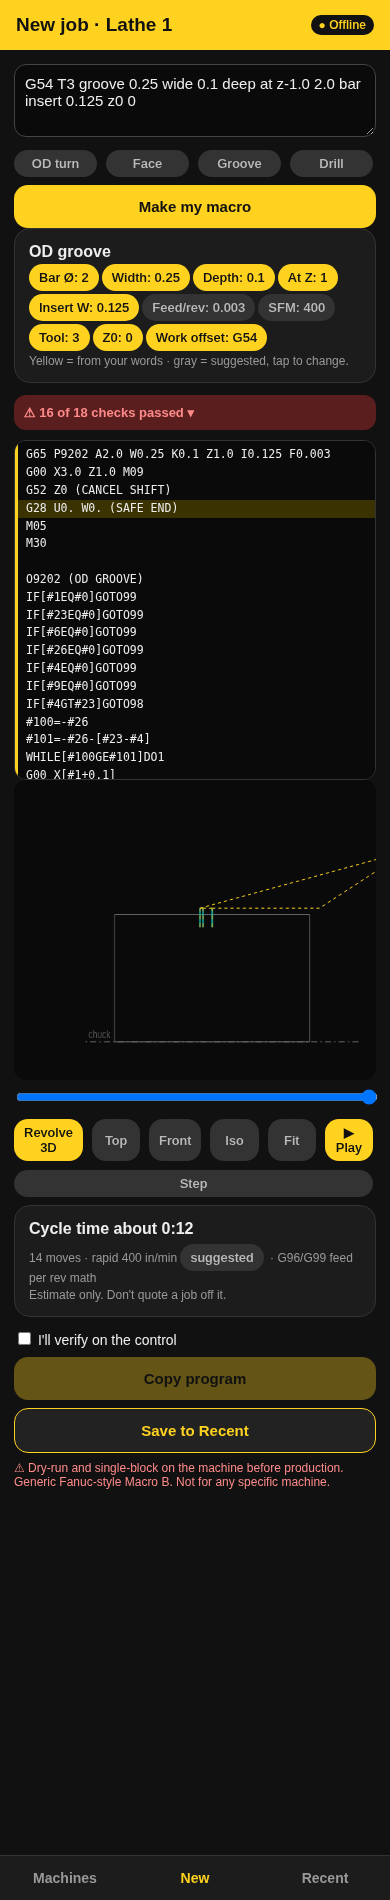
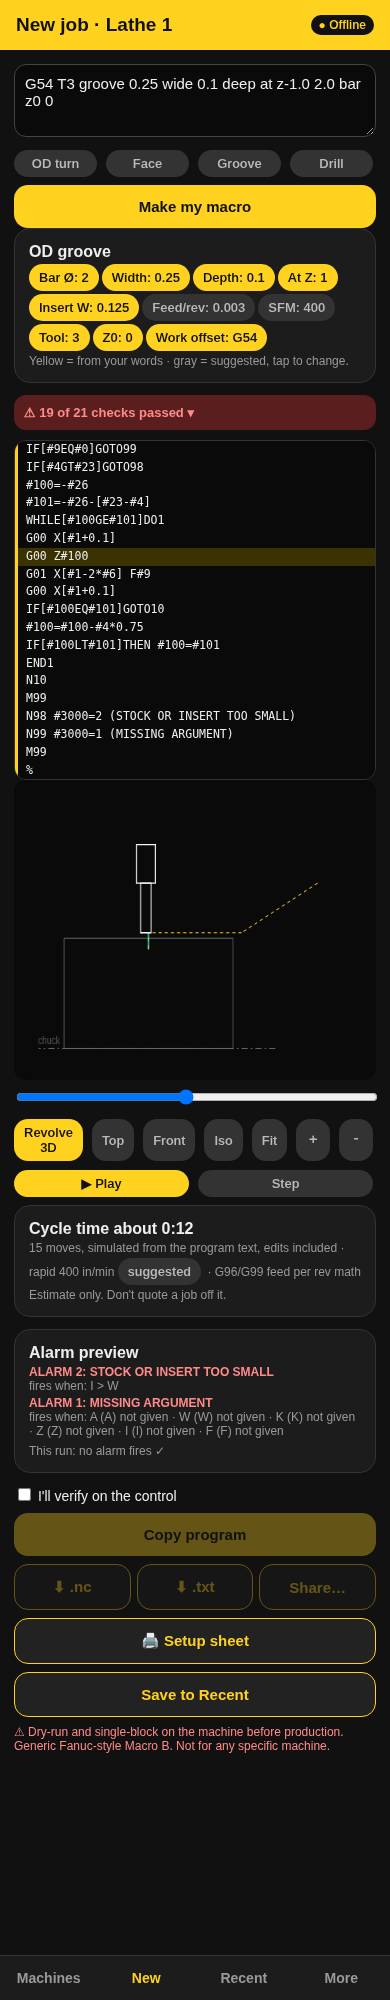
Round 3: Macro B interpreter drives sim from edited text, lathe fit/pan/zoom, tool library, G-code scanner, calculators, alarm preview, export, setup sheet, samples, snippets, change log, UI tests

diff --git a/index.html b/index.html
@@ -24,7 +24,7 @@ textarea,input,select{width:100%;background:#0a0a0a;color:#eee;border:1px solid 
 </style></head><body>
 <div class="h"><span id="ttl">My Machines 😼</span><small>● Offline</small></div>
 <div class="c" id="v"></div>
-<div class="tabs"><button data-t="machines">Machines</button><button data-t="new">New</button><button data-t="recent">Recent</button></div>
+<div class="tabs"><button data-t="machines">Machines</button><button data-t="new">New</button><button data-t="recent">Recent</button><button data-t="more">More</button></div>
 <script>
 const $=s=>document.querySelector(s),V=$('#v');
 const PRESETS={'Vertical mills':['Generic 3-axis VMC','Generic VMC w/ 4th axis','Small toolroom mill'],'Horizontal mills':['Generic HMC w/ pallet','Generic HMC 4-axis'],'Lathes':['Generic 2-axis lathe','Lathe w/ live tooling','Lathe w/ sub-spindle']};
@@ -35,7 +35,7 @@ function mk(name,type,user){return{id:Date.now()+Math.random(),name,type,s:(isLT
 let S=JSON.parse(localStorage.getItem('mc')||'null')||{m:[mk('Mill A','demo VMC',['Units','Rapid rate (in/min)']),mk('Mill B','demo VMC 4th',['Units']),mk('Lathe 1','demo lathe',[])],jobs:[],cur:0};
 S.m.forEach(m=>{if((isLT(m.type)&&!m.s.find(x=>x.k=='Diameter mode'))||!m.s.find(x=>x.k=='Extended offsets'))m.s=mk(m.name,m.type).s});
 const save=()=>localStorage.setItem('mc',JSON.stringify(S));
-function tab(t){document.querySelectorAll('.tabs button').forEach(b=>b.classList.toggle('on',b.dataset.t==t));({machines,new:nw,recent})[t]();scrollTo(0,0)}
+function tab(t){document.querySelectorAll('.tabs button').forEach(b=>b.classList.toggle('on',b.dataset.t==t));({machines,new:nw,recent,more})[t]();scrollTo(0,0)}
 document.querySelectorAll('.tabs button').forEach(b=>b.onclick=()=>tab(b.dataset.t));
 const pct=m=>Math.round(100*m.s.filter(x=>x.st=='user').length/m.s.length);
 const cls={user:'g',suggested:'gr',confirm:'r'},ic={user:'✓',suggested:'~',confirm:'!'};
@@ -104,7 +104,7 @@ function gen(j){const p=k=>j.p[k]?j.p[k].v:0,c=[],mv=[];let pos=[0,0,2],out=0;
  mv.forEach(m=>{if(!m.r&&(m.b[2]<st[2]))m.out=1,out++});j.stock=st;return{code:c,moves:mv,out}}
 const fmt=s=>Math.floor(s/60)+':'+String(Math.round(s%60)).padStart(2,'0');
 function saveJob(){S.jobs.unshift({...J,date:Date.now(),machine:(S.m[S.cur]||{}).name});save();tab('recent')}
-function recent(){$('#ttl').textContent='Recent';V.innerHTML=S.jobs.length?S.jobs.map((j,i)=>`<div class="card" onclick="reopen(${i})"><div class="t">${OPN[j.op]} · ${j.machine||''}</div><div class="s">${new Date(j.date).toLocaleString()}</div><div class="s">${esc(j.text)}</div></div>`).join(''):'<div class="card s">No saved jobs yet.</div>'}
+function recent(){$('#ttl').textContent='Recent';V.innerHTML=S.jobs.length?S.jobs.map((j,i)=>`<div class="card" onclick="reopen(${i})"><div class="t">${OPN[j.op]} · ${j.machine||''}</div><div class="s">${new Date(j.date).toLocaleString()}</div><div class="s">${esc(j.text)}</div></div>`).join(''):`<div class="card"><div class="s">No saved jobs yet. Try a sample:</div>${SAMPLES.map((s,i)=>`<button class="chip y" onclick="sample(${i})">${s[1]}</button>`).join('')}</div>`}
 function reopen(i){J=JSON.parse(JSON.stringify(S.jobs[i]));const k=S.m.findIndex(m=>m.name==J.machine);if(k>=0)S.cur=k;tab('new');show()}
 // ---------- work offsets (canonical: 'G54'..'G59' or 'P1'..'P300')
 function normOff(t){t=String(t).toLowerCase();let m=t.match(/g54\.1\s*p\s*(\d+)|g54\s*p\s*(\d+)/);if(m)return'P'+(m[1]||m[2]);m=t.match(/g1(1\d|2\d)\b/);if(m)return'P'+(+m[1]-9);m=t.match(/\bp\s*(\d+)\b/);if(m&&!/peck/.test(t))return'P'+m[1];m=t.match(/g5[4-9]\b/);return m?m[0].toUpperCase():null}
@@ -183,11 +183,11 @@ function show(){const miss=Object.entries(J.p).filter(([k,x])=>x.v==null);
  h+=`<div class="ok" id="ck" onclick="$('#cl').classList.toggle('hid')"></div><div id="cl" class="hid card"></div>
  <div class="code" id="ed">${J.code.map((l,i)=>`<div class="ln ${J.edits[i]!=null?'u':''}" contenteditable data-i="${i}">${esc(J.edits[i]??l)}</div>`).join('')}</div>
  <canvas id="cv"></canvas><input type="range" id="sc" min="0" value="0" style="padding:0;margin-top:8px">
- <div class="row" style="margin-top:6px">${J.lathe?'<button class="chip y" id="rv" onclick="rev()">Revolve 3D</button>':''}<button class="chip gr" onclick="vw('top')">Top</button><button class="chip gr" onclick="vw('front')">Front</button><button class="chip gr" onclick="vw('iso')">Iso</button><button class="chip gr" onclick="vw('fit')">Fit</button><button class="chip y" onclick="play()">▶ Play</button><button class="chip gr" onclick="step()">Step</button></div>
- <div class="card" style="margin-top:8px" id="info"></div>
- <label><input type="checkbox" id="vf" style="width:auto"> I'll verify on the control</label><button class="btn" id="cp" disabled onclick="copy()">Copy program</button><button class="btn o" onclick="saveJob()">Save to Recent</button>
+ <div class="row" style="margin-top:6px">${J.lathe?'<button class="chip y" id="rv" onclick="rev()">Revolve 3D</button>':''}<button class="chip gr" onclick="vw('top')">Top</button><button class="chip gr" onclick="vw('front')">Front</button><button class="chip gr" onclick="vw('iso')">Iso</button><button class="chip gr" onclick="vw('fit')">Fit</button><button class="chip gr" onclick="zoom(1.25)">＋</button><button class="chip gr" onclick="zoom(0.8)">－</button><button class="chip y" onclick="play()">▶ Play</button><button class="chip gr" onclick="step()">Step</button></div>
+ <div class="card" style="margin-top:8px" id="info"></div><div class="card" id="alm"></div>
+ <label><input type="checkbox" id="vf" style="width:auto"> I'll verify on the control</label><button class="btn gate" id="cp" disabled onclick="copy()">Copy program</button><div class="row"><button class="btn o gate" disabled onclick="dl('nc')">⬇ .nc</button><button class="btn o gate" disabled onclick="dl('txt')">⬇ .txt</button><button class="btn o gate" disabled onclick="share()">Share…</button></div><button class="btn o" onclick="sheet()">🖨 Setup sheet</button><button class="btn o" onclick="saveJob()">Save to Recent</button>
  <div class="foot">⚠ Dry-run and single-block on the machine before production. Generic Fanuc-style Macro B. Not for any specific machine.</div>`;
- $('#out').innerHTML=h;$('#vf').onchange=e=>$('#cp').disabled=!e.target.checked;
+ $('#out').innerHTML=h;$('#vf').onchange=e=>V.querySelectorAll('.gate').forEach(b=>b.disabled=!e.target.checked);
  V.querySelectorAll('.ln').forEach(el=>el.oninput=()=>{J.edits[el.dataset.i]=el.textContent;el.classList.add('u');refresh()});
  $('#sc').oninput=e=>{clearInterval(pl);scrub(+e.target.value)};view.rev=0;refresh();initCv();scrub(J.M.length)}
 function refresh(){J.M=J.moves.concat(userMoves());const ch=checks(J),ok=ch.filter(c=>c[1]).length,m=S.m[S.cur],rr=+((sv('Rapid rate (in/min)')||{v:400}).v),rs=sv('Rapid rate (in/min)'),out=J.M.filter(x=>x.out).length;
@@ -240,7 +240,154 @@ function step(){clearInterval(pl);scrub(view.n>=J.M.length?1:view.n+1)}
 function shiftZero(j,g){const v=k=>j.p[k]?j.p[k].v:0,o=j.lathe?[0,0,v('Z0')]:[v('Center X')||v('Start X')||0,v('Center Y')||v('Start Y')||0,v('Z0')];
  g.moves.forEach(m=>{m.a=m.a.map((x,i)=>x+o[i]);m.b=m.b.map((x,i)=>x+o[i])});j.stock=j.stock.map((x,i)=>x+o[i%3]);if(j.lb)j.lb={...j.lb,z:j.lb.z+o[2],L:j.lb.L-o[2]}}
 
+// ---------- Macro B interpreter (runs the edited text) — generic subset
+const ARG={A:1,B:2,C:3,I:4,J:5,K:6,D:7,E:8,F:9,H:11,M:13,Q:17,R:18,S:19,T:20,U:21,V:22,W:23,X:24,Y:25,Z:26};
+const FN={SIN:x=>Math.sin(x*Math.PI/180),COS:x=>Math.cos(x*Math.PI/180),TAN:x=>Math.tan(x*Math.PI/180),ATAN:x=>Math.atan(x)*180/Math.PI,ASIN:x=>Math.asin(x)*180/Math.PI,ACOS:x=>Math.acos(x)*180/Math.PI,SQRT:Math.sqrt,ABS:Math.abs,ROUND:Math.round,FIX:Math.trunc,FUP:x=>x<0?Math.floor(x):Math.ceil(x),LN:Math.log,EXP:Math.exp};
+function mexpr(e,V){let s=e.replace(/\[/g,'(').replace(/\]/g,')').replace(/#(\d+)/g,'V($1)').replace(/#\(/g,'V(')
+  .replace(/EQ/g,'==').replace(/NE/g,'!=').replace(/GE/g,'>=').replace(/LE/g,'<=').replace(/GT/g,'>').replace(/LT/g,'<').replace(/AND/g,'&&').replace(/XOR/g,'^').replace(/OR/g,'||')
+  .replace(/(SIN|COS|TAN|ATAN|ASIN|ACOS|SQRT|ABS|ROUND|FIX|FUP|LN|EXP)\(/g,'F.$1(');
+ if(!/^(?:V|F\.[A-Z]+|[\d.]+|[-+*/()<>=!&|^])*$/.test(s))throw Error('bad expression: '+e);
+ return Function('V','F','return ('+s+')')(V,FN)}
+function brEnd(s,i){let d=0;for(;i<s.length;i++){if(s[i]=='[')d++;else if(s[i]==']'&&--d==0)return i}return -1}
+function words(s){const w=[];let i=0;while(i<s.length){const L=s[i];if(!/[A-Z]/.test(L)){i++;continue}let j=i+1;if(s[j]=='-'||s[j]=='+')j++;
+  if(s[j]=='['){j=brEnd(s,j)+1}else if(s[j]=='#'){j++;if(s[j]=='[')j=brEnd(s,j)+1;else while(/\d/.test(s[j]))j++}else while(/[\d.]/.test(s[j]))j++;
+  w.push([L,s.slice(i+1,j)]);i=j}return w}
+function interp(lines,o){o=o||{};const lathe=o.lathe,M=[],alarms=[],V={};const R=[];let pos=[...(o.start||[0,0,2])],home=[...pos],mode=0,abs=1,can=null,ret=99,shift=[0,0,0],feed=1,steps=0,err=null;
+ const cl=lines.map(l=>{const c=(l.match(/\(([^)]*)\)/)||[])[1]||'';return{c,s:l.replace(/\([^)]*\)/g,'').replace(/\s+/g,'').toUpperCase().replace(/^%$/,'')}});
+ const progStart=i=>{for(let k=i;k>=0;k--)if(/^O\d+/.test(cl[k].s))return k;return 0};
+ const findN=(n,i)=>{const p=progStart(i);for(let k=p;k<cl.length;k++){if(k>p&&/^O\d+/.test(cl[k].s))break;if(new RegExp('^N'+n+'(?!\\d)').test(cl[k].s))return k}throw Error('N'+n+' not found')};
+ const findO=n=>{const k=cl.findIndex(x=>new RegExp('^O0*'+n+'(?!\\d)').test(x.s));if(k<0)throw Error('O'+n+' not found');return k};
+ let loc=[{}];const get=n=>{n=Math.round(n);if(n==0)return null;if(n<=33){const v=loc.at(-1)[n];return v==null?null:v}const v=V[n];return v==null?null:v};
+ const set=(n,v)=>{n=Math.round(n);if(n<=33)loc.at(-1)[n]=v;else V[n]=v};
+ const ev=e=>mexpr(e,get);const val=x=>{const v=ev(x);return v==null?0:v};
+ const mv=(b,r,l)=>{const m={a:[...pos],b,r:r?1:0,f:feed,l};M.push(m);pos=[...b]};
+ function motion(s,i){const w=words(s);let g=[],P={};w.forEach(([L,x])=>{if(L=='G')g.push(+x);else P[L]=x});
+  if(g.includes(65)){const pr=val(P.P),args={};Object.keys(P).forEach(k=>{if(k!='P'&&ARG[k])args[ARG[k]]=val(P[k])});loc.push(args);R.push(i);return findO(pr)}
+  g.forEach(x=>{if(x==0||x==1||x==2||x==3)mode=x;if(x==90)abs=1;if(x==91)abs=0;if(x==80)can=null;if(x==81||x==83)can=x;if(x==98||x==99)ret=x});
+  if(P.F!=null)feed=val(P.F);
+  if(g.includes(52)){['X','Y','Z'].forEach((k,n)=>{if(P[k]!=null)shift[n]=val(P[k])});return}
+  if(g.includes(28)){mv(lathe?[...home]:[pos[0],pos[1],home[2]+shift[2]],1,i);return}
+  if(g.includes(50)&&lathe)return;
+  if(g.some(x=>x==4)){return}
+  const t=[...pos];let any=0;
+  const ax=lathe?[['X',0,.5],['Z',2,1]]:[['X',0,1],['Y',1,1],['Z',2,1]];
+  ax.forEach(([k,n,sc])=>{if(P[k]!=null){any=1;t[n]=abs?val(P[k])*sc+shift[n]:t[n]+val(P[k])*sc}});
+  if(lathe){if(P.U!=null){any=1;t[0]+=val(P.U)/2}if(P.W!=null){any=1;t[2]+=val(P.W)}}
+  if(!any)return;
+  if(can&&!lathe){const z0=pos[2],rz=val(P.R??'0')+shift[2],zb=t[2],q=P.Q!=null?val(P.Q):0;mv([t[0],t[1],z0],1,i);mv([t[0],t[1],rz],1,i);
+   if(can==83&&q>0){let z=rz;while(z>zb+1e-9){const nz=Math.max(zb,z-q);mv([t[0],t[1],nz],0,i);mv([t[0],t[1],rz],1,i);if(nz>zb)mv([t[0],t[1],nz+0.01],1,i);z=nz}}else{mv([t[0],t[1],zb],0,i);}
+   mv([t[0],t[1],ret==98?z0:rz],1,i);if(ret==98)pos[2]=z0;return}
+  if(mode==2||mode==3){const a=lathe?[pos[2],pos[0]]:[pos[0],pos[1]],b=lathe?[t[2],t[0]]:[t[0],t[1]];let c;
+   if(P.R!=null){const r=val(P.R),dx=b[0]-a[0],dy=b[1]-a[1],d=Math.hypot(dx,dy),h=Math.sqrt(Math.max(0,r*r-d*d/4)),sgn=(mode==2)==(r>0)?-1:1;c=[(a[0]+b[0])/2-sgn*h*dy/d,(a[1]+b[1])/2+sgn*h*dx/d]}
+   else c=lathe?[a[0]+val(P.K||'0'),a[1]+val(P.I||'0')/1]:[a[0]+val(P.I||'0'),a[1]+val(P.J||'0')];
+   let a0=Math.atan2(a[1]-c[1],a[0]-c[0]),a1=Math.atan2(b[1]-c[1],b[0]-c[0]),r=Math.hypot(a[0]-c[0],a[1]-c[1]);const cw=mode==2;
+   if(cw&&a1>=a0)a1-=2*Math.PI;if(!cw&&a1<=a0)a1+=2*Math.PI;const n=Math.max(4,Math.ceil(Math.abs(a1-a0)/0.15));
+   for(let k=1;k<=n;k++){const an=a0+(a1-a0)*k/n,x=c[0]+r*Math.cos(an),y=c[1]+r*Math.sin(an),z=pos[2]+(t[2]-pos[2])/(n-k+1);mv(lathe?[y,0,x]:[x,y,lathe?pos[2]:z],0,i)}return}
+  mv(t,mode==0,i)}
+ function stmt(s,i){
+  if(/^#/.test(s)&&s.includes('=')){const k=s.indexOf('=');let L=s.slice(1,k);const n=L[0]=='['?val(L.slice(1,-1)):+L;const v=ev(s.slice(k+1));if(n==3000){alarms.push({n:v,msg:cl[i].c,l:i});throw{alarm:1}}set(n,v);return}
+  if(/^GOTO/.test(s))return findN(val(s.slice(4)),i);
+  if(/^(M30|M02)/.test(s)||/M30/.test(s.replace(/\[.*?\]/g,''))&&!/^G/.test(s)&&!/^#/.test(s)){throw{end:1}}
+  if(/M99/.test(s)){const r=R.pop();loc.pop();if(r==null)throw{end:1};return r+1}
+  return motion(s,i)}
+ let i=0;try{
+  // run from first program
+  i=cl.findIndex(x=>/^O\d+/.test(x.s));if(i<0)i=0;else i++;
+  while(i<cl.length){if(++steps>200000)throw Error('step limit (endless loop?)');const s=cl[i].s;let nx=i+1;
+   if(!s||/^O\d+/.test(s)){ if(/^O\d+/.test(s)&&!R.length)break;i=nx;continue}
+   let b=s.replace(/^N\d+(?=\D|$)/,'');
+   if(/^IF\[/.test(b)){const e=brEnd(b,2),c=ev(b.slice(3,e)),rest=b.slice(e+1);if(c){if(/^GOTO/.test(rest))nx=findN(val(rest.slice(4)),i);else{const r=stmt(rest.replace(/^THEN/,''),i);if(r!=null)nx=r}}}
+   else if(/^WHILE\[/.test(b)){const e=brEnd(b,5),c=ev(b.slice(6,e)),n=b.slice(e+1).replace('DO','');if(!c){let k=i+1;while(k<cl.length&&!new RegExp('^(N\\d+)?END'+n+'$').test(cl[k].s))k++;nx=k+1}}
+   else if(/^END\d$/.test(b)){const n=b[3];let k=i-1,d=0;while(k>=0&&!new RegExp('^(N\\d+)?WHILE.*DO'+n+'$').test(cl[k].s))k--;nx=k}
+   else{const r=stmt(b,i);if(r!=null)nx=r}
+   i=nx}
+ }catch(e){if(!e.end&&!e.alarm)err=(e.message||String(e))+' (line '+(i+1)+')'}
+ return{moves:M,alarms,err}}
+// ---------- round 3: run sim from edited text
+const LET=Object.fromEntries(Object.entries(ARG).map(([k,v])=>[v,k]));
+function refresh(){const st=J.stock;let r;try{r=interp(txt(),{lathe:J.lathe,start:(J.moves[0]||{a:[0,0,2]}).a})}catch(e){r={moves:[],alarms:[],err:e.message}}
+ J.run=r;J.M=r.err||!r.moves.length?J.moves:r.moves;
+ J.M.forEach(m=>{m.out=0;if(J.lathe?(m.b[0]<-1e-6||(!m.r&&m.b[2]<st[2]-1e-6)):(!m.r&&m.b[2]<st[2]-1e-6))m.out=1});
+ const ch=checks(J);ch.unshift(['Program runs in simulator'+(r.err?': '+r.err:''),!r.err],['No #3000 alarm on this run'+(r.alarms.length?' (alarm '+r.alarms[0].n+': '+r.alarms[0].msg+')':''),!r.alarms.length]);
+ const lt=S.tools&&S.tools.find(t=>t.n==(J.p.Tool||{}).v);ch.push(['Tool T'+(J.p.Tool||{}).v+' is in the tool library',!!lt]);
+ const ok=ch.filter(c=>c[1]).length,rr=+((sv('Rapid rate (in/min)')||{v:400}).v),rs=sv('Rapid rate (in/min)'),out=J.M.filter(x=>x.out).length;J.ct=time(J.M,rr);
+ $('#ck').className='ok '+(ok==ch.length?'':'bad');$('#ck').textContent=`${ok==ch.length?'✓':'⚠'} ${ok} of ${ch.length} checks passed ▾`;$('#cl').innerHTML=ch.map(c=>`<div class="s">${c[1]?'✅':'❌'} ${c[0]}</div>`).join('');
+ $('#sc').max=J.M.length;
+ $('#info').innerHTML=`<div class="t">Cycle time about ${fmt(J.ct)}</div><div class="s">${J.M.length} moves, simulated from ${r.err?'the generator (your text has an error)':'the program text, edits included'} · rapid ${rr} in/min <span class="chip ${rs&&rs.st=='user'?'g':'gr'}">${rs&&rs.st=='user'?'set':'suggested'}</span>${J.lathe?' · G96/G99 feed per rev math':''}</div><div class="s">Estimate only. Don't quote a job off it.</div>`+(out?`<div class="s" style="color:#ff8a8a">⚠ ${out} move(s) outside stock or below centerline (red)</div>`:'');
+ $('#alm').innerHTML=alarmPreview();if(cv){if(view.n>J.M.length)view.n=J.M.length;draw()}}
+function alarmPreview(){const t=txt(),out=[];t.forEach((l,i)=>{const m=l.match(/N(\d+)\s*#3000\s*=\s*(\d+)\s*\(([^)]*)\)/);if(!m)return;
+  const conds=[];t.forEach(x=>{const g=x.replace(/\s/g,'').match(/^IF\[(.*)\]GOTO(\d+)$/);if(g&&g[2]==m[1])conds.push(g[1].replace(/#(\d+)EQ#0/,(a,n)=>`${LET[n]||'#'+n} (#${n}) not given`).replace(/#(\d+)/g,(a,n)=>LET[n]?LET[n]:a).replace(/GE/,' ≥ ').replace(/LT/,' < ').replace(/GT/,' > '))});
+  out.push(`<div class="s"><b style="color:#ff8a8a">ALARM ${m[2]}: ${m[3]}</b><br>fires when: ${[...new Set(conds)].join(' · ')||'—'}</div>`)});
+ const a=J.run&&J.run.alarms[0];return `<div class="t">Alarm preview</div>${out.join('')}<div class="s" style="margin-top:6px">This run: ${a?'<span style="color:#ff8a8a">stops at alarm '+a.n+' (line '+(a.l+1)+')</span>':'no alarm fires ✓'}</div>`}
+// ---------- view: fit / pan / zoom
+function vw(k){if(k=='top')view.rx=0,view.rz=0;if(k=='front')view.rx=-Math.PI/2,view.rz=0;if(k=='iso')view.rx=-0.9,view.rz=-0.6;if(k=='iso2')view.rx=-1.2,view.rz=0.9;view.px=0;view.py=0;
+ const st=J.stock,M=J.M||J.moves;view.c=[(st[0]+st[3])/2,(st[1]+st[4])/2,(st[2]+st[5])/2];view.s=Math.min(cv.clientWidth,300)*0.75/Math.max(st[3]-st[0],st[4]-st[1],st[5]-st[2],2.5);
+ if(J.lathe){let z0=st[2],z1=st[5],r1=J.lb.R;M.forEach(m=>[m.a,m.b].forEach(p=>{z0=Math.min(z0,p[2]);z1=Math.max(z1,p[2]);r1=Math.max(r1,p[0])}));z1+=0.25;z0-=0.15;r1+=0.8;const r0=-0.15;
+  view.fs=Math.min((cv.clientWidth-20)/(z1-z0),270/(r1-r0));view.fz=z1;view.fz0=z0;view.fr=r1;view.fx=10+((cv.clientWidth-20)-(z1-z0)*view.fs)/2}draw()}
+function P(p){if(J.lathe&&!view.rev)return[view.fx+(p[2]-view.fz0)*view.fs+view.px,15+(view.fr-p[0])*view.fs+view.py];
+ let x=p[0]-view.c[0],y=p[1]-view.c[1],z=p[2]-view.c[2];const cz=Math.cos(view.rz),sz=Math.sin(view.rz);[x,y]=[x*cz-y*sz,x*sz+y*cz];const cx=Math.cos(view.rx),sx=Math.sin(view.rx);[y,z]=[y*cx-z*sx,y*sx+z*cx];return[cv.clientWidth/2+x*view.s+view.px,150-y*view.s+view.py]}
+function zoom(f){view.s*=f;if(view.fs)view.fs*=f;draw()}
+function initCv(){cv=$('#cv');const d=devicePixelRatio||1;cv.width=cv.clientWidth*d;cv.height=300*d;ctx=cv.getContext('2d');ctx.scale(d,d);view.px=view.py=0;vw(J.lathe?'fit':'iso');
+ let dr=null;cv.onpointerdown=e=>dr=[e.clientX,e.clientY,e.shiftKey];onpointerup=()=>dr=null;cv.onwheel=e=>{e.preventDefault();zoom(e.deltaY<0?1.15:1/1.15)};
+ cv.onpointermove=e=>{if(!dr)return;const dx=e.clientX-dr[0],dy=e.clientY-dr[1];if((J.lathe&&!view.rev)||view.pan){view.px+=dx;view.py+=dy}else{view.rz+=dx/100;view.rx+=dy/100}dr=[e.clientX,e.clientY];draw()}}
+// ---------- tool library (§5)
+S.tools=S.tools||[{n:1,type:'Face mill',dia:2,len:3,fl:5},{n:2,type:'Drill',dia:0.25,len:4,fl:2},{n:3,type:'Groove insert',dia:0.125,len:2,fl:1},{n:4,type:'End mill',dia:0.5,len:3,fl:3},{n:5,type:'Drill',dia:0.25,len:4,fl:2}];
+const TT=['End mill','Face mill','Drill','Spot drill','Tap','Turning insert','Groove insert','Boring bar'];
+function tools(){document.querySelectorAll('.tabs button').forEach(b=>b.classList.toggle('on',b.dataset.t=='more'));$('#ttl').textContent='Tool library';V.innerHTML=S.tools.map((t,i)=>`<div class="card"><div class="row"><input style="width:60px;flex:0 0 60px" value="${t.n}" data-f="n" data-i="${i}"><select data-f="type" data-i="${i}">${TT.map(x=>`<option ${x==t.type?'selected':''}>${x}</option>`).join('')}</select></div>
+ <div class="row" style="margin-top:6px">${[['dia','Ø in'],['len','stick-out in'],['fl','flutes']].map(([f,l])=>`<label style="flex:1">${l}<input inputmode="decimal" value="${t[f]}" data-f="${f}" data-i="${i}"></label>`).join('')}</div><button class="chip r" onclick="S.tools.splice(${i},1);save();tools()">Remove</button></div>`).join('')+
+ `<button class="btn" onclick="S.tools.push({n:(Math.max(0,...S.tools.map(t=>t.n))+1),type:'End mill',dia:0.5,len:3,fl:3});save();tools()">+ Add tool</button><div class="s" style="margin-top:8px">Jobs look up the tool by number (T1, T2…) for its diameter. Demo tools only.</div><button class="btn o" onclick="more()">Back</button>`;
+ V.querySelectorAll('[data-f]').forEach(el=>el.onchange=()=>{const t=S.tools[el.dataset.i];t[el.dataset.f]=el.dataset.f=='type'?el.value:+el.value;save()})}
+const _req=req;req=function(j){j=_req(j);if(!j)return j;const t=S.tools.find(x=>x.n==(j.p.Tool||{}).v);if(t){
+ if(j.op=='face'&&j.p.Cutter.v==null)j.p.Cutter={v:t.dia,g:false,lib:1};if(j.p['Drill Ø']&&j.p['Drill Ø'].g)j.p['Drill Ø']={v:t.dia,g:false,lib:1};if(j.op=='lgroove'&&j.p['Insert W'].v==null)j.p['Insert W']={v:t.dia,g:false,lib:1}}return j};
+// ---------- G-code scanner (§9)
+const GD={'G00':'Rapid move','G01':'Straight feed move','G02':'Arc clockwise','G03':'Arc counter-clockwise','G04':'Dwell (pause)','G10':'Set offsets from program','G17':'XY plane','G18':'XZ plane (lathe)','G19':'YZ plane','G20':'Inch units','G21':'Metric units','G28':'Return to home','G40':'Cutter comp off','G41':'Cutter comp left','G42':'Cutter comp right','G43':'Tool length comp on','G49':'Tool length comp off','G50':'Lathe: max RPM clamp (or scaling off on some mills)','G52':'Local coordinate shift','G53':'Machine coordinates (one block)','G54':'Work offset 1','G55':'Work offset 2','G56':'Work offset 3','G57':'Work offset 4','G58':'Work offset 5','G59':'Work offset 6','G54.1':'Extended work offset (Pn)','G65':'Macro call (one shot)','G66':'Modal macro call','G67':'Cancel modal macro','G68':'Rotate coordinates','G69':'Cancel rotation','G70':'Lathe finish cycle','G71':'Lathe roughing cycle','G72':'Lathe face roughing','G73':'High-speed peck drill (mill) / pattern repeat (lathe)','G74':'Left-hand tap (mill) / face peck (lathe)','G76':'Fine bore (mill) / threading (lathe)','G80':'Cancel canned cycle','G81':'Drill cycle','G82':'Drill with dwell','G83':'Peck drill cycle','G84':'Tapping cycle','G85':'Bore in, feed out','G90':'Absolute positioning','G91':'Incremental positioning','G94':'Feed per minute','G95':'Feed per rev (mill)','G96':'Constant surface speed','G97':'Constant RPM','G98':'Canned cycle: return to start Z (mill) / feed per min (lathe)','G99':'Canned cycle: return to R (mill) / feed per rev (lathe)',
+ 'M00':'Program stop','M01':'Optional stop','M03':'Spindle on clockwise','M04':'Spindle on counter-clockwise','M05':'Spindle stop','M06':'Tool change','M08':'Coolant on','M09':'Coolant off','M30':'End of program, rewind','M98':'Call subprogram','M99':'Return from subprogram'};
+const LONLY=['G18','G50','G70','G71','G72','G96','G76'],MONLY=['G17','G43','G49','G81','G82','G83','G84','G85','G68','M06'];
+function scanner(pre){document.querySelectorAll('.tabs button').forEach(b=>b.classList.toggle('on',b.dataset.t=='more'));$('#ttl').textContent='G-code scanner';V.innerHTML=`<div class="s">Paste any program. Nothing leaves the phone. Checked against: <b>${(S.m[S.cur]||{}).name}</b></div><textarea id="sq" rows="8" style="font-family:ui-monospace,Menlo,monospace;font-size:12px;margin-top:6px">${esc(pre||'')}</textarea><button class="btn" onclick="scan()">Scan</button><div id="so"></div><button class="btn o" onclick="more()">Back</button>`;if(pre)scan()}
+function scan(){const t=$('#sq').value.toUpperCase().replace(/\([^)]*\)/g,''),L=isL(),seen={};
+ (t.match(/[GM]\d+(\.\d)?/g)||[]).forEach(c=>{const k=c[0]+(c.includes('.')?c.slice(1).padStart(4,'0'):c.slice(1).padStart(2,'0'));seen[k]=(seen[k]||0)+1});
+ (t.match(/G1[1-2]\d\b/g)||[]).forEach(c=>{seen[c]=seen[c]});
+ const rows=Object.keys(seen).sort().map(k=>{let d=GD[k],f='';if(/^G1[1-2]\d$/.test(k)){d='Haas-style extended work offset';f=/G110/.test((sv('Offset syntax')||{v:''}).v)?'':'This machine is set to '+(sv('Offset syntax')||{}).v}
+  if(k=='G54.1'){f=extN()?'':'Machine has no extended offsets'}if(!d)f='Unknown / not in the library — check the control manual';else if(L&&MONLY.includes(k))f='Mill code on a lathe — check';else if(!L&&LONLY.includes(k)&&k!='G50')f='Lathe code on a mill — check';
+  return`<div class="set"><span><b class="v" style="color:#14b8a6">${k}</b> ${d||'?'} <span class="s">×${seen[k]}</span>${f?`<br><span class="chip r">! ${f}</span>`:''}</span></div>`});
+ const mac=(t.match(/WHILE|IF\[|#\d+/g)||[]).length;$('#so').innerHTML=`<div class="card"><div class="t">${Object.keys(seen).length} codes found</div>${rows.join('')}<div class="s" style="margin-top:6px">${mac?mac+' macro items (#vars, IF, WHILE) found.':'No macro statements.'} Meanings are plain-English summaries; control behavior varies — confirm on yours.</div></div>`}
+// ---------- calculators (§16)
+function calc(){document.querySelectorAll('.tabs button').forEach(b=>b.classList.toggle('on',b.dataset.t=='more'));$('#ttl').textContent='Calculators';V.innerHTML=`<div class="card"><div class="t">Speeds & feeds</div><div class="row"><label style="flex:1">SFM<input id="c1" value="400"></label><label style="flex:1">Tool Ø in<input id="c2" value="0.5"></label></div><div class="row"><label style="flex:1">Flutes<input id="c3" value="3"></label><label style="flex:1">Chipload in/tooth<input id="c4" value="0.002"></label></div><div class="ok" id="co"></div></div>
+<div class="card"><div class="t">Bolt circle coordinates</div><div class="row"><label style="flex:1">Holes<input id="b1" value="6"></label><label style="flex:1">BC Ø<input id="b2" value="3"></label><label style="flex:1">Start°<input id="b3" value="0"></label></div><div class="row"><label style="flex:1">Center X<input id="b4" value="0"></label><label style="flex:1">Center Y<input id="b5" value="0"></label></div><div id="bo"></div></div>
+<div class="card"><div class="t">Tap drill (basic)</div><div class="row"><label style="flex:1">Major Ø (in or mm)<input id="t1" value="0.25"></label><label style="flex:1">TPI or pitch mm<input id="t2" value="20"></label></div><label><input type="checkbox" id="t3" style="width:auto"> metric</label><div class="ok" id="to"></div></div><div class="s">Starting points only — check your tool maker's data and your machine.</div><button class="btn o" onclick="more()">Back</button>`;
+ const g=id=>+$('#'+id).value,up=()=>{const rpm=g('c1')*3.82/g('c2'),ipm=rpm*g('c3')*g('c4');$('#co').textContent=`RPM ≈ ${Math.round(rpm)} · Feed ≈ ${ipm.toFixed(1)} in/min`;
+  let h='<table style="width:100%;font:12px ui-monospace,monospace;color:#ddd"><tr><th>#</th><th>X</th><th>Y</th></tr>';for(let i=0;i<g('b1');i++){const a=(g('b3')+360*i/g('b1'))*Math.PI/180;h+=`<tr><td>${i+1}</td><td>${(g('b4')+g('b2')/2*Math.cos(a)).toFixed(4)}</td><td>${(g('b5')+g('b2')/2*Math.sin(a)).toFixed(4)}</td></tr>`}$('#bo').innerHTML=h+'</table>';
+  const m=$('#t3').checked,d=m?g('t1')-g('t2'):g('t1')-1/g('t2');$('#to').textContent=`Tap drill ≈ ${d.toFixed(m?2:4)} ${m?'mm':'in'} (about 75% thread, major − pitch)`};V.querySelectorAll('input').forEach(e=>e.oninput=up);up()}
+// ---------- snippets (§15)
+S.snips=S.snips||[{n:'Safe start (mill)',c:'G17 G20 G40 G49 G80 G90'},{n:'Safe end (mill)',c:'M09\nG91 G28 Z0.\nG90 M05\nM30'},{n:'Missing-arg alarm',c:'IF[#1EQ#0]GOTO99\n...\nN99 #3000=1 (MISSING ARGUMENT)'},{n:'Count loop',c:'#100=0\nWHILE[#100LT#11]DO1\n(...)\n#100=#100+1\nEND1'},{n:'Safe start (lathe)',c:'G18 G20 G40 G80 G99\nG50 S3000'}];
+function snips(){document.querySelectorAll('.tabs button').forEach(b=>b.classList.toggle('on',b.dataset.t=='more'));$('#ttl').textContent='Snippets';V.innerHTML=S.snips.map((s,i)=>`<div class="card"><div class="t">⭐ ${esc(s.n)}</div><pre class="code" style="padding:8px;margin:6px 0">${esc(s.c)}</pre><div class="row"><button class="chip gr" onclick="navigator.clipboard?.writeText(S.snips[${i}].c);this.textContent='Copied'">Copy</button><button class="chip gr" onclick="scanner(S.snips[${i}].c)">Scan it</button><button class="chip r" onclick="S.snips.splice(${i},1);save();snips()">Remove</button></div></div>`).join('')+
+ `<div class="card"><input id="sn" placeholder="Name"><textarea id="sc2" rows="3" style="margin-top:6px;font-family:ui-monospace,monospace" placeholder="Code"></textarea><button class="btn" onclick="if($('#sn').value){S.snips.push({n:$('#sn').value,c:$('#sc2').value});save();snips()}">Save snippet</button></div><button class="btn o" onclick="more()">Back</button>`}
+// ---------- samples (§27), about + change log (§33)
+const SAMPLES=[['Mill A','Bolt circle (mill)','G54 T5 6 hole bolt circle 3.0 dia center x0 y0 z0 0 start 15 0.5 deep peck 0.1'],['Mill A','Hole grid (mill)','G55 T2 3 x 4 grid 0.75 spacing start x0.5 y0.5 z0 0 0.4 deep drill'],['Mill A','Face mill','G54 T1 face 4 x 3 take off 0.06 stepdown 0.02 stepover 70 z0 0'],['Lathe 1','OD turn (lathe)','G54 T1 turn 2.0 bar to 1.5 dia 3 long z0 0 chamfer 0.03'],['Lathe 1','OD groove (lathe)','G54 T3 groove 0.25 wide 0.1 deep at z-1.0 2.0 bar z0 0']];
+function sample(i){const s=SAMPLES[i],k=S.m.findIndex(m=>m.name==s[0]);if(k>=0)S.cur=k;tab('new');ex(s[2])}
+const LOG=[['0.3 · Oct 12','Simulator now runs your edited macro text (small Macro B interpreter). Lathe view fit/pan/zoom. Tool library, G-code scanner, calculators, alarm preview, export, setup sheet, samples, snippets.'],['0.2 · Oct 12','Lathe jobs, tool shown in sim, scrub + line highlight, required positional values, extended work offsets.'],['0.1 · Oct 12','First prototype: machines, bolt circle/grid/face, Macro B generator, checker, 3D view, recent.']];
+function about(){document.querySelectorAll('.tabs button').forEach(b=>b.classList.toggle('on',b.dataset.t=='more'));$('#ttl').textContent='About';V.innerHTML=`<div class="card"><div class="t">Macro Catculator 😼 prototype</div><div class="s">Fully offline. Generic Fanuc-style Macro B only. Not affiliated with any machine or control maker. Demo data only.</div><div class="foot">Always dry-run and single-block on the machine before production.</div></div><div class="card"><div class="t">Change log</div>${LOG.map(l=>`<div class="s"><b style="color:#ffd21f">${l[0]}</b> — ${l[1]}</div>`).join('')}</div><button class="btn o" onclick="more()">Back</button>`}
+function more(){$('#ttl').textContent='More';document.querySelectorAll('.tabs button').forEach(b=>b.classList.toggle('on',b.dataset.t=='more'));
+ V.innerHTML=[['🔧 Tool library','tools()'],['🔍 G-code scanner','scanner()'],['🧮 Calculators','calc()'],['⭐ Snippets','snips()'],['ℹ About & change log','about()']].map(([n,f])=>`<div class="card" onclick="${f}"><div class="t">${n}</div></div>`).join('')+`<div class="card"><div class="t">Sample jobs</div>${SAMPLES.map((s,i)=>`<button class="chip y" onclick="sample(${i})">${s[1]}</button>`).join('')}</div>`}
+// ---------- export (§18) + setup sheet (§30)
+function fname(){return (OPN[J.op]||'job').replace(/\W+/g,'_').toLowerCase()+'_O'+((txt().join('\n').match(/O(\d{4})/)||[])[1]||'1000')}
+function dl(ext){const b=new Blob([txt().join('\r\n')],{type:'text/plain'}),a=document.createElement('a');a.href=URL.createObjectURL(b);a.download=fname()+'.'+ext;a.click()}
+async function share(){const f=new File([txt().join('\r\n')],fname()+'.nc',{type:'text/plain'});if(navigator.canShare&&navigator.canShare({files:[f]}))await navigator.share({files:[f],title:fname()});else dl('nc')}
+function sheet(){const m=S.m[S.cur]||{name:'?'},st=J.stock,tl=S.tools.find(t=>t.n==J.p.Tool.v),W=260,H=150;
+ let svg;if(J.lathe){const b=J.lb,sc=Math.min(220/(b.L+b.z+0.5),110/(b.R*2)),x0=240-b.z*sc;svg=`<rect x="${x0-b.L*sc}" y="${75-b.R*sc}" width="${(b.L+b.z)*sc}" height="${b.R*2*sc}" fill="none" stroke="#333"/><line x1="10" y1="75" x2="250" y2="75" stroke="#999" stroke-dasharray="6 3"/><circle cx="${x0-J.p.Z0.v*0}" cy="75" r="5" fill="none" stroke="#c00"/><text x="${x0-30}" y="${75-b.R*sc-6}" font-size="10">Z0 at face (${J.p.Z0.v})</text><text x="${x0-b.L*sc}" y="145" font-size="10">← chuck</text>`}
+ else{const sw=st[3]-st[0],sh=st[4]-st[1],sc=Math.min(220/sw,120/sh),ox=20+(-st[0])*sc*0+20,cx=130-(sw*sc)/2;const zx=cx+(0-st[0]+((J.p['Center X']||J.p['Start X']||{v:0}).v)*0)*sc;
+  const px=cx+(((J.p['Center X']||J.p['Start X']||{v:0}).v)-st[0])*sc,py=135-(((J.p['Center Y']||J.p['Start Y']||{v:0}).v)-st[1])*sc;svg=`<rect x="${cx}" y="${135-sh*sc}" width="${sw*sc}" height="${sh*sc}" fill="none" stroke="#333"/><line x1="${px-12}" y1="${py}" x2="${px+12}" y2="${py}" stroke="#c00"/><line x1="${px}" y1="${py-12}" x2="${px}" y2="${py+12}" stroke="#c00"/><circle cx="${px}" cy="${py}" r="6" fill="none" stroke="#c00"/><text x="${px+8}" y="${py-8}" font-size="10">part zero</text>`}
+ const o=document.createElement('div');o.id='sheet';o.innerHTML=`<style>#sheet{position:fixed;inset:0;background:#fff;color:#111;z-index:50;overflow:auto;padding:18px;font-size:13px}#sheet td{border:1px solid #ccc;padding:4px 6px}#sheet table{border-collapse:collapse;width:100%;margin:6px 0}@media print{body>*:not(#sheet){display:none}#sheet .np{display:none}#sheet{position:static}}</style>
+ <h2 style="margin:0">Setup sheet — ${OPN[J.op]}</h2><div>${new Date().toLocaleString()} · ${fname()}</div>
+ <table><tr><td>Machine</td><td>${m.name} (${m.type}) · ${(m.s[0]||{}).v}</td></tr><tr><td>Work offset</td><td>${offLbl(J.p['Work offset'].v)} · Z0 = ${J.p.Z0.v} ${J.lathe?'(face)':'(top of part)'}</td></tr>
+ <tr><td>Stock</td><td>${J.lathe?`Ø${J.p['Bar Ø']?J.p['Bar Ø'].v:'—'} bar, ${J.lb.L.toFixed(2)} out of chuck`:`${(st[3]-st[0]).toFixed(2)} × ${(st[4]-st[1]).toFixed(2)} in`}</td></tr>
+ <tr><td>Tool</td><td>T${J.p.Tool.v} ${tl?`${tl.type} Ø${tl.dia} · stick-out ${tl.len} · ${tl.fl} fl`:'(not in library)'}</td></tr><tr><td>Cycle time</td><td>about ${fmt(J.ct||0)} (estimate)</td></tr>
+ <tr><td>Values</td><td>${Object.entries(J.p).map(([k,x])=>`${k}: ${k=='Work offset'?offLbl(x.v):x.v}${x.g?' (suggested)':''}`).join(' · ')}</td></tr></table>
+ <div><b>Offset location</b></div><svg width="${W}" height="${H}" style="border:1px solid #ccc">${svg}</svg>
+ <p><b>⚠ Dry-run and single-block on the machine before production.</b> Generic Fanuc-style Macro B. Verify on your control.</p><p>Operator: ________ &nbsp; Checked: ________</p>
+ <div class="np"><button class="btn" onclick="print()">Print</button><button class="btn o" onclick="this.closest('#sheet').remove()">Close</button></div>`;document.body.appendChild(o)}
+
 if('serviceWorker'in navigator&&location.protocol!='file:')navigator.serviceWorker.register('sw.js');
 tab('machines');
-let H=decodeURIComponent(location.hash.slice(1));if(H.startsWith('L:')){S.cur=S.m.findIndex(m=>isLT(m.type));H=H.slice(2)}if(H=='presets')addM();else if(H=='recent'){tab('new');ex('6 hole bolt circle 3.0 dia 0.5 deep');saveJob()}else if(H){tab('new');ex(H);const q=new URLSearchParams(location.search);if(J&&J.M){if(q.has('rev'))rev();if(q.has('n'))scrub(Math.floor(J.M.length*+q.get('n')))}}
+let H=decodeURIComponent(location.hash.slice(1));if(H.startsWith('more:')){const f=H.slice(5);({tools,calc,snips,about,more,scanner:()=>scanner('O1234\nG17 G20 G90 G54.1 P2\nG43 H1 Z1.\nG96 S400\nG71 U0.05 R0.02\nG81 X1 Y1 Z-0.5 R0.1 F8\nG12.1\nM30')})[f]();H=''}else if(H.startsWith('edit:')){H=H.slice(5);window.__edit=1}if(H.startsWith('L:')){S.cur=S.m.findIndex(m=>isLT(m.type));H=H.slice(2)}if(H=='presets')addM();else if(H=='recent'){tab('new');ex('6 hole bolt circle 3.0 dia 0.5 deep');saveJob()}else if(H){tab('new');ex(H);if(window.__edit&&J&&J.code){J.code.forEach((l,i)=>{if(l=='#102=#7/2*COS[#101]')J.edits[i]='#102=#7*COS[#101]';if(l=='G01 Z-#26 F#9'&&J.lathe)J.edits[i]='G01 Z[-#26+1.0] F#9'});show()}const q=new URLSearchParams(location.search);if(J&&J.M){if(q.has('rev'))rev();if(q.has('n'))scrub(Math.floor(J.M.length*+q.get('n')));if(q.has('sheet'))sheet()}}
 </script></body></html>

diff --git a/test/ui-test.html b/test/ui-test.html
@@ -1,0 +1,25 @@
+<!doctype html><body style="background:#fff"><pre id="o"></pre><iframe id="f" src="../index.html" style="width:390px;height:844px"></iframe><script>
+const out=[],log=(n,ok)=>out.push((ok?'PASS ':'FAIL ')+n);
+f.onload=()=>{const w=f.contentWindow,d=w.document;try{
+ if(!window.r){window.r=1;w.localStorage.clear();w.location.reload();return}}catch(e){}
+ setTimeout(()=>{const w=f.contentWindow,d=w.document;try{
+  // red chip confirm on Mill A: Extended offsets
+  w.edit(0);const k=w.eval('S').m[0].s.findIndex(x=>x.k=='Extended offsets');d.querySelectorAll('.set .chip')[k].click();log('red chip confirm turns setting green',w.eval('S').m[0].s[k].st=='user');
+  // set extended offsets to 48 via input
+  const inp=d.querySelector(`input[data-j="${k}"]`);inp.value='48';inp.onchange();log('extended offsets saved =48',w.eval('S').m[0].s[k].v=='48');
+  w.eval('S').cur=0;w.tab('new');w.ex('T5 6 hole bolt circle 3.0 dia center x0 y0 z0 0 start 15 0.5 deep');
+  const sel=d.querySelector('select[data-k="Work offset"]');const opts=[...sel.options].map(o=>o.textContent);log('picker offers G54.1 P1..P48 ('+opts.length+' options)',opts.includes('G54.1 P48')&&!opts.includes('G54.1 P49'));
+  sel.value='P12';w.fill();const code=w.eval('txt()').join('\n');log('code uses G54.1 P12',/G54\.1 P12 G00/.test(code));
+  log('offset check passes',/Work offset G54.1 P12 exists[^❌]*/.test(d.querySelector('#cl').textContent)&&!d.querySelector('#cl').textContent.includes('❌ Work offset'));
+  // syntax change to G110
+  const ks=w.eval('S').m[0].s.findIndex(x=>x.k=='Offset syntax');w.eval('S').m[0].s[ks].v='G110-G129';w.show();log('Haas-style syntax emits G121 for P12',/G121 G00/.test(w.eval('txt()').join('\n')));
+  w.eval('J').p['Work offset'].v='P30';w.show();log('P30 flagged with G110 style (max 20)',d.querySelector('#cl').textContent.includes('❌ Work offset'));
+  // verify gate
+  log('export gated before verify',[...d.querySelectorAll('.gate')].every(b=>b.disabled));d.querySelector('#vf').checked=true;d.querySelector('#vf').onchange({target:{checked:true}});log('export enabled after verify',[...d.querySelectorAll('.gate')].every(b=>!b.disabled));
+  // edit feeds sim
+  const n0=w.eval('J').M.map(m=>m.b[0]).reduce((a,b)=>Math.max(a,b));const i=w.eval('J').code.indexOf('#102=#7/2*COS[#101]');const el=d.querySelector(`.ln[data-i="${i}"]`);el.textContent='#102=#7*COS[#101]';el.oninput();
+  const n1=w.eval('J').M.map(m=>m.b[0]).reduce((a,b)=>Math.max(a,b));log(`edited radius line moves path (max X ${n0.toFixed(2)} -> ${n1.toFixed(2)})`,n1>n0*1.9);log('edited line pink',el.classList.contains('u'));
+  // missing arg -> alarm preview
+  const g=w.eval('J').code.findIndex(l=>/^G65/.test(l));const e2=d.querySelector(`.ln[data-i="${g}"]`);e2.textContent=w.eval('J').code[g].replace(/H6 /,'');e2.oninput();log('removing H arg fires alarm 1 in preview',/stops at alarm 1/.test(d.querySelector('#alm').textContent));
+ }catch(e){out.push('ERROR '+e.message)}o.textContent=out.join('\n')},800)};
+</script></body>

diff --git a/sw.js b/sw.js
@@ -1,2 +1,2 @@
-const C='mc-v1';self.addEventListener('install',e=>e.waitUntil(caches.open(C).then(c=>c.addAll(['./','index.html','manifest.json']))));
+const C='mc-v3';self.addEventListener('install',e=>e.waitUntil(caches.open(C).then(c=>c.addAll(['./','index.html','manifest.json']))));
 self.addEventListener('fetch',e=>e.respondWith(caches.match(e.request).then(r=>r||fetch(e.request))));
